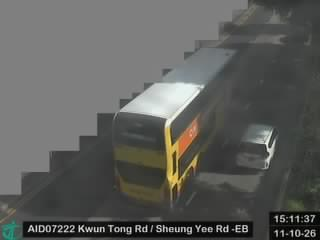
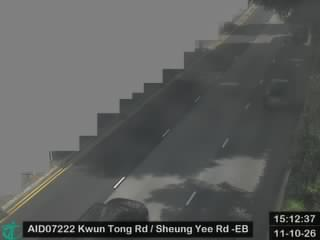
District cameras: the counted snapshot with the detector's boxes, a wall of all 22 cameras busiest first, the busiest one opens first, and a note on the Transport Department's masked 320 x 240 snapshots

diff --git a/app/src/scripts/city.ts b/app/src/scripts/city.ts
@@ -13,6 +13,8 @@ interface Camera {
   lon: number;
   imageUrl: string;
   node?: number;
+  /** Vehicle boxes on the last counted snapshot, media/hongkong/<id>.jpg (320 x 240). */
+  last?: { t: string | null; boxes: number[][] };
   series: { t: string; vehicles: number; standing?: number; density?: number }[];
 }
 interface District {
@@ -238,6 +240,14 @@ function draw(): void {
     .join("")}</tbody></table>`;
 }
 
+/** The counted snapshot with the boxes the detector found on it (SVG over the image, 320 x 240). */
+function counted(c: Camera, cls = ""): string {
+  const boxes = (c.last?.boxes ?? []).map(([x1, y1, x2, y2]) => `<rect x="${x1}" y="${y1}" width="${x2 - x1}" height="${y2 - y1}" fill="none" stroke="#ffb224" stroke-width="2"/>`).join("");
+  return `<div class="snap ${cls}"><img src="/media/hongkong/${c.id}.jpg" alt="Snapshot of the camera ${c.name} as counted" loading="lazy" /><svg viewBox="0 0 320 240" preserveAspectRatio="none" aria-hidden="true">${boxes}</svg></div>`;
+}
+const hkt = (t: string | null | undefined) => (t ? new Date(t).toLocaleTimeString("en-GB", { timeZone: "Asia/Hong_Kong", hour: "2-digit", minute: "2-digit" }) + " HKT" : "");
+let flyTo: (c: Camera) => void = () => undefined;
+
 function showCamera(c: Camera): void {
   const l = cameraLoad(c, false);
   const v = c.series.map((p) => p.vehicles);
@@ -245,11 +255,34 @@ function showCamera(c: Camera): void {
   const W = 300, H = 48;
   const pts = v.map((y, i) => `${(i / Math.max(1, v.length - 1)) * W},${H - (y / max) * (H - 4) - 2}`).join(" ");
   const live = c.imageUrl.includes("tdcctv") ? `${c.imageUrl}?t=${Math.floor(Date.now() / 60000)}` : c.imageUrl;
-  const lastT = c.series[c.series.length - 1]?.t ?? "";
+  const n = c.last?.boxes.length ?? l.now;
   $("camera").innerHTML = `<p><strong>${c.name}</strong></p>
-    <img src="${live}" alt="Latest image of the camera ${c.name}" crossorigin="anonymous" onerror="this.src='/media/hongkong/${c.id}.jpg'" />
+    ${counted(c)}
+    <p class="hint">Counted by OQIM at ${hkt(c.last?.t)}: <strong>${n} vehicle${n === 1 ? "" : "s"}</strong> (orange boxes). <a href="${live}" target="_blank" rel="noopener">This camera now, live from the Transport Department</a>.</p>
     <svg class="spark" viewBox="0 0 ${W} ${H}" preserveAspectRatio="none"><polyline points="${pts}" fill="none" stroke="#f3c316" stroke-width="2" /></svg>
-    <p class="hint">Vehicles on the last snapshot (${lastT.replace("T", " ").replace("Z", " UTC")}): <strong>${l.now}</strong>. Forecast for 10 minutes ahead (Holt's smoothing): <strong>${Number.isFinite(l.forecast) ? l.forecast.toFixed(1) : "n/a"}</strong>. Backtest on ${l.n} snapshots: mean error ${Number.isFinite(l.mae) ? l.mae.toFixed(2) : "n/a"} vehicles, against ${Number.isFinite(l.naive) ? l.naive.toFixed(2) : "n/a"} for "same as last".</p>`;
+    <p class="hint">Vehicles on each of its ${v.length} snapshots today. Forecast for 10 minutes ahead (Holt's smoothing): <strong>${Number.isFinite(l.forecast) ? l.forecast.toFixed(1) : "n/a"}</strong>. Backtest on ${l.n} snapshots: mean error ${Number.isFinite(l.mae) ? l.mae.toFixed(2) : "n/a"} vehicles, against ${Number.isFinite(l.naive) ? l.naive.toFixed(2) : "n/a"} for "same as last".</p>`;
+  document.querySelectorAll<HTMLElement>("#camwall .cw").forEach((b) => b.setAttribute("aria-pressed", String(b.dataset.id === c.id)));
+}
+
+/** Every camera of the district with what it counted, busiest first. */
+function cameraWall(): void {
+  const box = $("camwall");
+  const cams = [...district.cameras].sort((a, b) => (b.last?.boxes.length ?? 0) - (a.last?.boxes.length ?? 0));
+  box.innerHTML = "";
+  for (const c of cams) {
+    const b = document.createElement("button");
+    b.type = "button";
+    b.className = "cw";
+    b.dataset.id = c.id;
+    const n = c.last?.boxes.length ?? 0;
+    b.innerHTML = `${counted(c, "small")}<span class="cw-n">${n}</span><span class="cw-name"></span>`;
+    b.querySelector(".cw-name")!.textContent = c.name.replace(/\s*\[.*\]$/, "");
+    b.addEventListener("click", () => {
+      showCamera(c);
+      flyTo(c);
+    });
+    box.append(b);
+  }
 }
 
 // ---------------------------------------------------------------- setup
@@ -379,7 +412,10 @@ async function main(): Promise<void> {
   $("status").textContent = `${district.district}: ${district.cameras.length} cameras, ${parksAll.length} car parks, ${liveNote}. Placing drivers`;
   await new Promise((ok) => setTimeout(ok, 30));
   run();
-  if (district.cameras[0]) showCamera(district.cameras[0]);
+  flyTo = (c) => map.easeTo({ center: [c.lon, c.lat], zoom: Math.max(map.getZoom(), 15) });
+  cameraWall();
+  const busiest = [...district.cameras].sort((a, b) => (b.last?.boxes.length ?? 0) - (a.last?.boxes.length ?? 0))[0];
+  if (busiest) showCamera(busiest);
 }
 
 main().catch((e) => {

diff --git a/samples_src/hongkong_detect.py b/samples_src/hongkong_detect.py
@@ -94,14 +94,18 @@ def one_round(model, cams, state, series):
     return new
 
 
-def build(cams, series):
+def build(cams, series, state=None):
     nodes = load_nodes()
+    boxes = (state or {}).get("boxes", {})
     out = []
     for c in cams:
+        ser = sorted(series.get(c["id"], []), key=lambda x: x["t"])
         out.append({"id": c["id"], "name": c["name"], "lat": c["lat"], "lon": c["lon"],
                     "imageUrl": c["imageUrl"],
                     "node": nearest_node(nodes, c["lon"], c["lat"]) if nodes else None,
-                    "series": sorted(series.get(c["id"], []), key=lambda x: x["t"])})
+                    # the vehicle boxes on the last counted snapshot (media/hongkong/<id>.jpg)
+                    "last": {"t": ser[-1]["t"] if ser else None, "boxes": [[round(v) for v in b[:4]] for b in boxes.get(c["id"], [])]},
+                    "series": ser})
     return {"source": SOURCE, "district": "Kwun Tong, Hong Kong", "center": CENTER,
             "cameras": out}
 
@@ -131,7 +135,7 @@ def main():
         t0 = time.time()
         new = one_round(model, cams, state, series)
         write_json(STATE, state)
-        obj = build(cams, series)
+        obj = build(cams, series, state)
         write_json(OUT, obj, separators=(",", ":"))
         total = sum(len(c["series"]) for c in obj["cameras"])
         log("round: %d new points, %d total, %.0f s" % (new, total, time.time() - t0))
